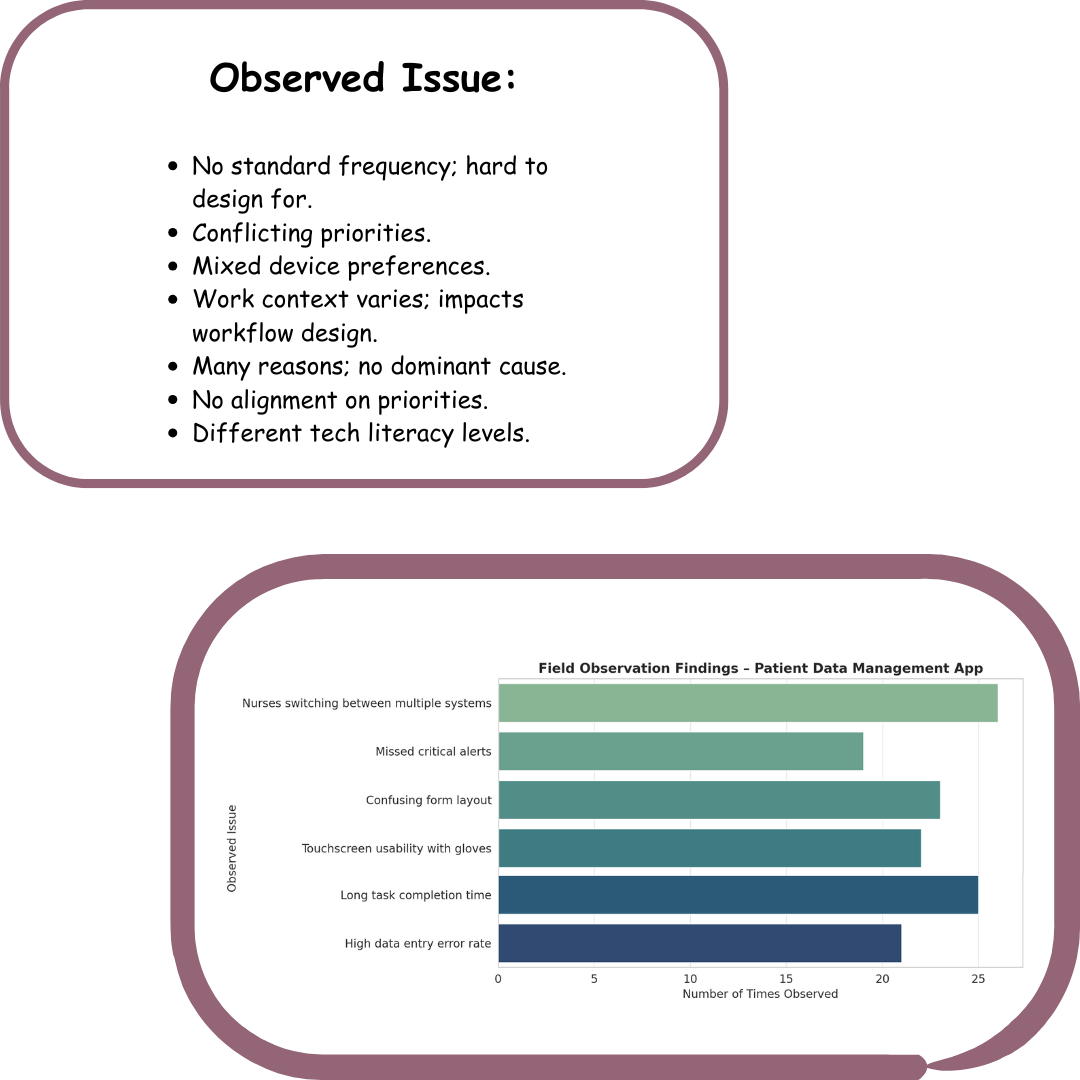
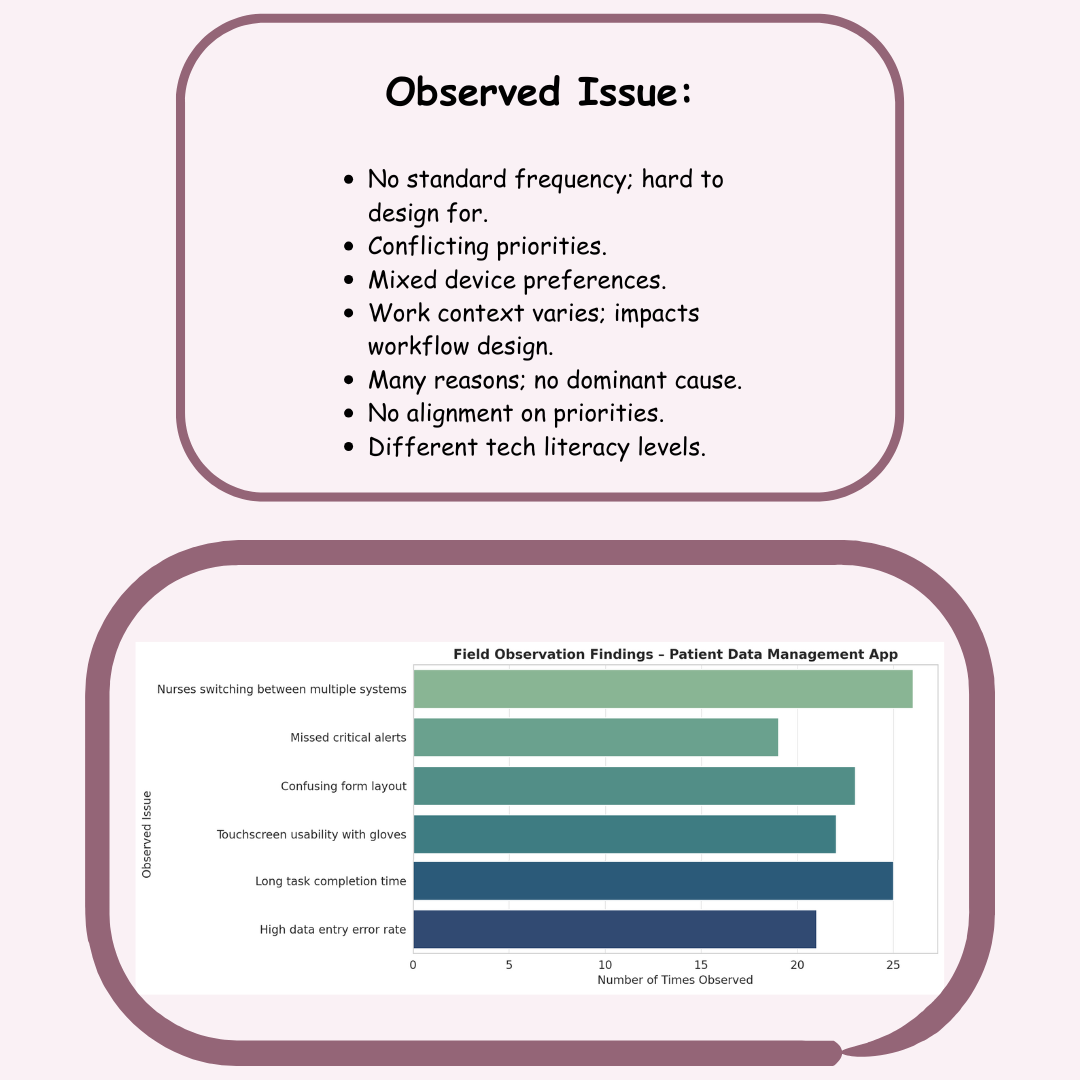
Fixed before and after sec

diff --git a/portfolio-details-agartee-app.html b/portfolio-details-agartee-app.html
@@ -939,21 +939,22 @@
                       <div class="container section-title" data-aos="fade-up" style="margin-top: 30px;">
                         <h2>BEFORE/AFTER ITERATION</h2>
                       </div>
-                      <div class="portfolio-info"
+
+                      <figure class="image-row"
                         style="display: flex; flex-direction: column; align-items: center; width: 100%;">
-                        <figure class="image-row"
-                          style="display: flex; flex-direction: column; align-items: center; width: 100%;">
 
-                          <div class="container section-title" data-aos="fade-up"
-                            style="margin-top: 30px; text-align: center; width: 100%;">
-                            <h2>LOW-FI WIREFRAME</h2>
-                            <img src="assets/img/agartee-app/agartee-app-after-iterationV2.png" class="img-fluid"
-                              alt="Before Iteration"
-                              style="max-width: 100%; height: auto; display: block; margin: 0 auto;">
-                          </div>
+                        <div class="container section-title" data-aos="fade-up"
+                          style="margin-top: 30px; text-align: center; width: 100%;">
+                          <img src="assets/img/agartee-app/agartee-app-after-iteration.png" class="img-fluid"
+                            alt="Before Iteration"
+                            style="max-width: 100%; height: auto; display: block; margin: 0 auto;">
+                          <img src="assets/img/agartee-app/agartee-app-after-iterationV2.png" class="img-fluid"
+                            alt="Before Iteration"
+                            style="max-width: 100%; height: auto; display: block; margin: 0 auto;">
+                        </div>
 
-                        </figure>
-                      </div>
+                      </figure>
+
                       <!-- End of Before After Iteration img -->
 
 
